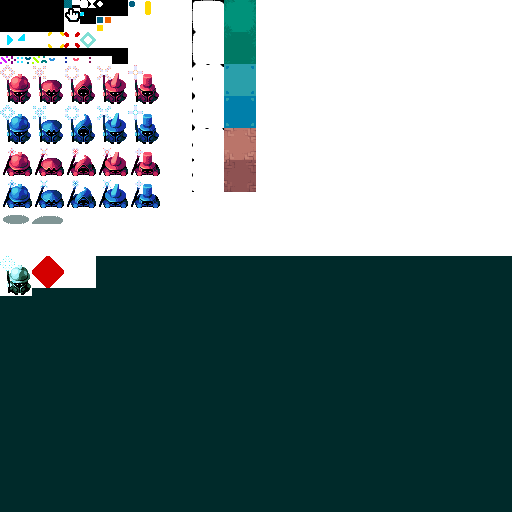
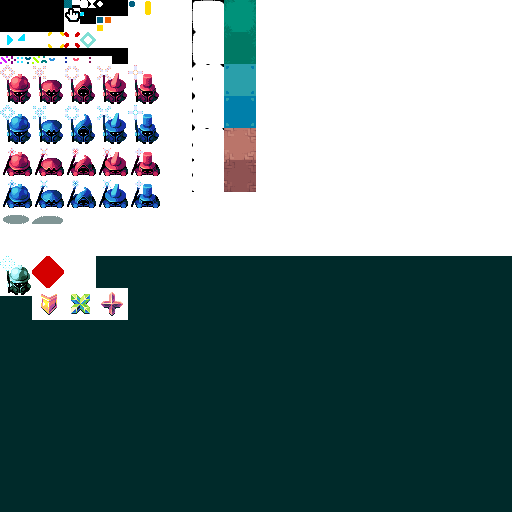
Update font and add powerup sprites

Changed region(s): [[0.0625, 0.5625, 0.25, 0.625]]

diff --git a/src/draw.rs b/src/draw.rs
@@ -43,10 +43,12 @@ pub fn draw_sprite(
 fn kerning(char: char) -> (isize, isize) {
     match char {
         'i' => (-2, -1),
-        'l' => (-2, -2),
-        't' => (-1, 0),
+        'l' => (-2, -1),
+        't' => (-2, -1),
         'f' => (0, -1),
-        'a' => (0, -1),
+        'a' => (-1, 0),
+        'c' => (-1, -1),
+        'o' => (-1, -1),
         _ => (0, 0),
     }
 }
